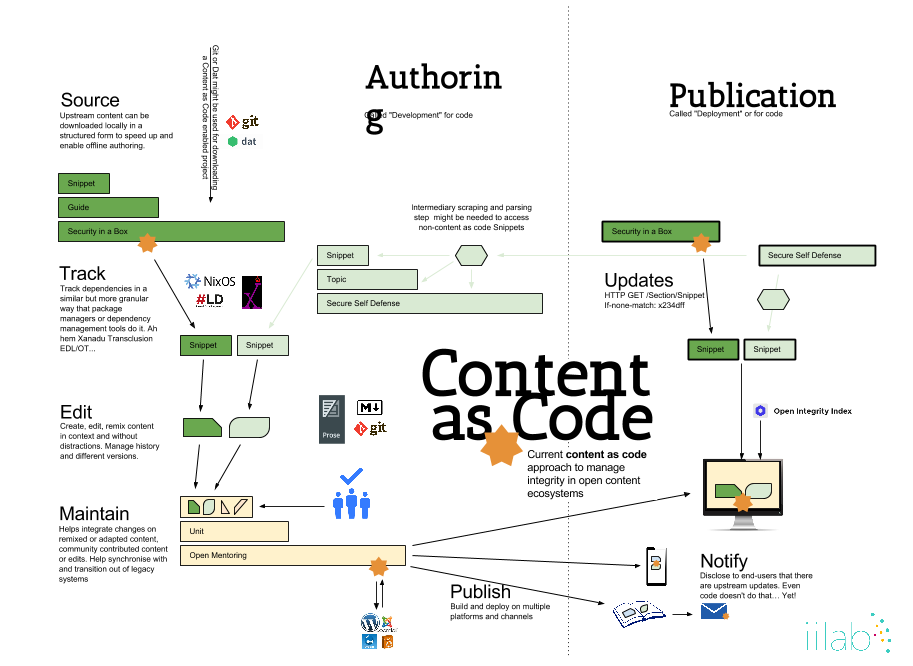
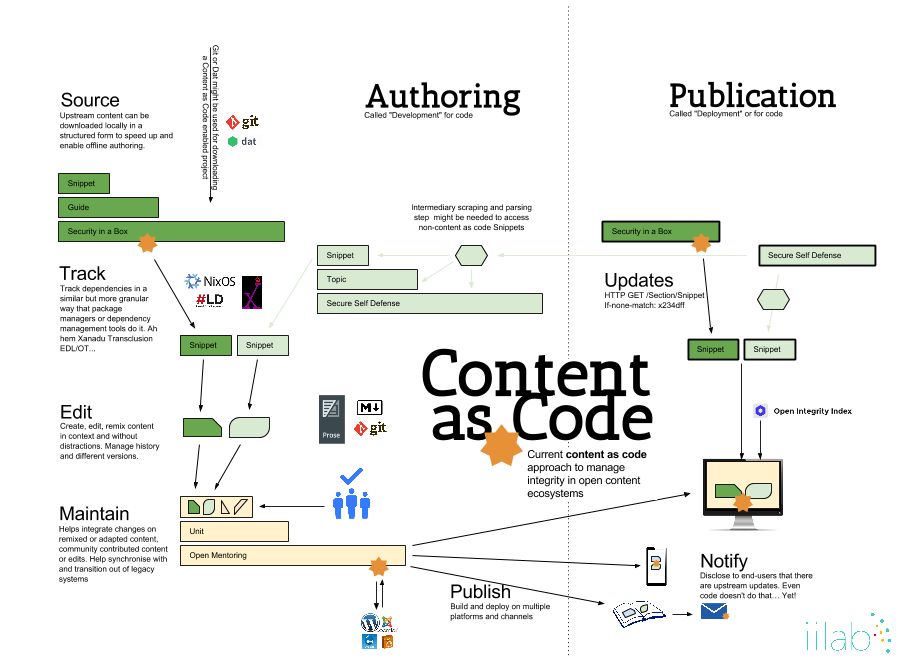
Small layout fix in image and link to fullscreen

Changed region(s): [[0.3987, 0.0901, 0.5827, 0.2102]]

diff --git a/approach.md b/approach.md
@@ -55,7 +55,7 @@ There is a problem with content management in a [Post-CMS](#what-does-post-cms-m
 
 Software engineering as a discipline, has been dealing with complex contribution processes requiring to create, move, merge, transform large quantities of code. This has led to the creation of tool to be able to trace the history of changes, allow very large team contributing to similar code bases and manage, reuse vast amounts of other project's code, track changes and organise review by peers, manage documentation and its obsolecence, translations of manuals and software, test problems as early as possible in order to rapidly and frequently build software artifacts that can be deployed across servers, computer and mobile devices.
 
-![dependencies](../images/dependencies.png)
+[![dependencies](../images/dependencies.png)](../images/dependencies.png)
 
 Applying these concepts and lessons to editorial workflows is not trivial and requires a strong focus on author experience (as well as editor and translator experience).
 
